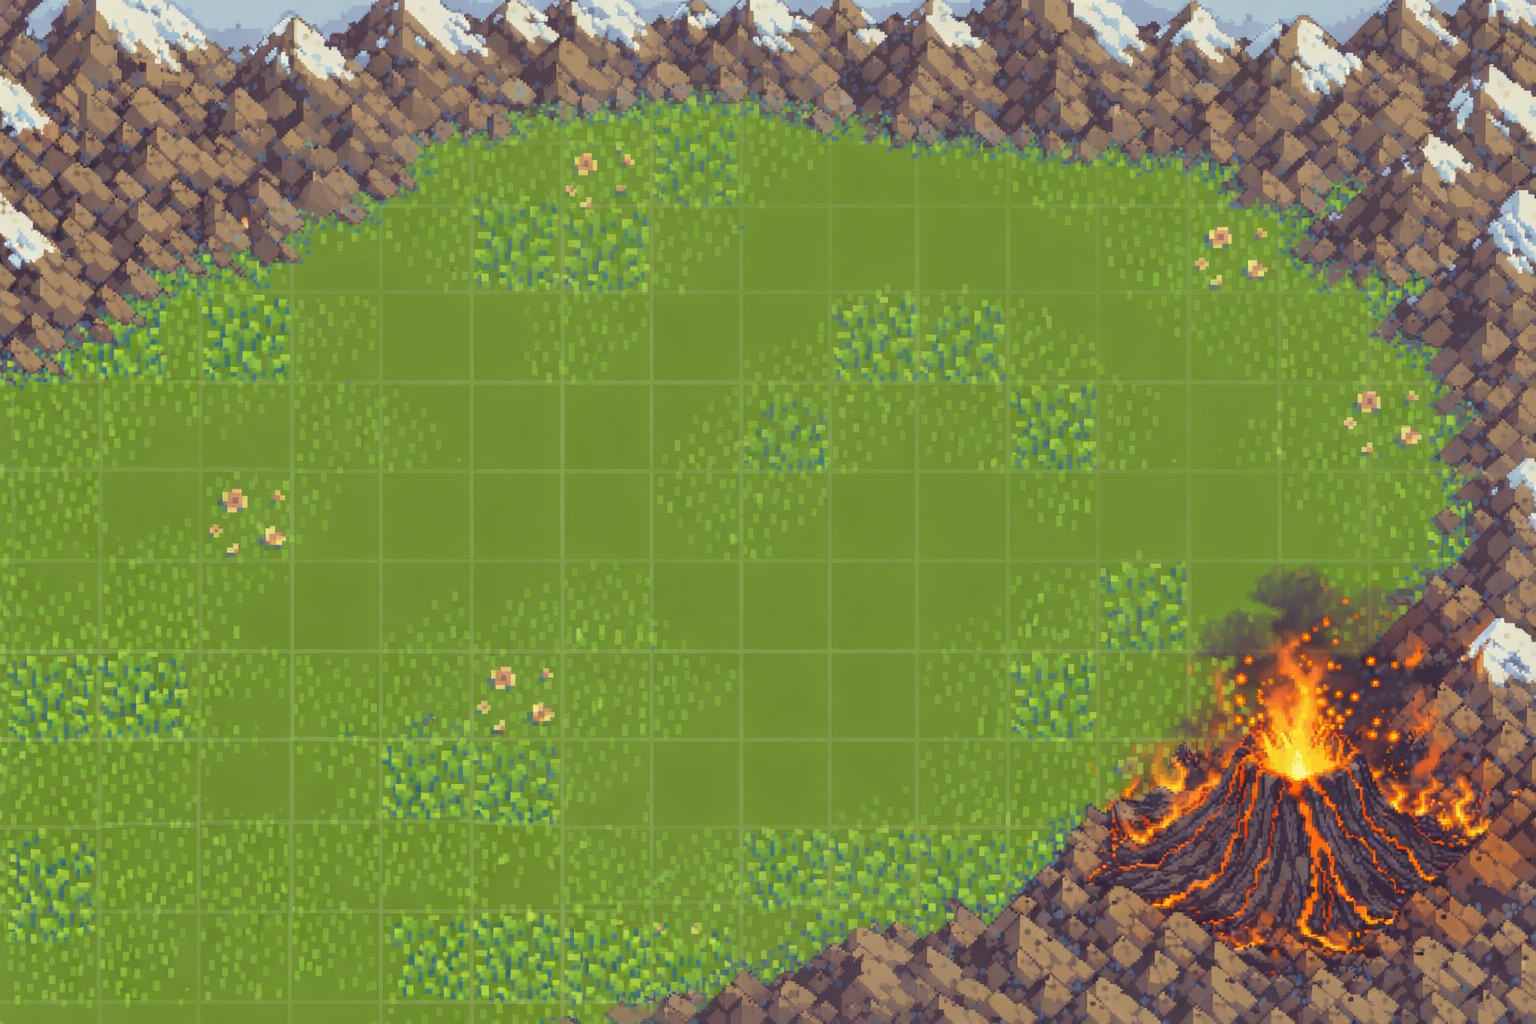
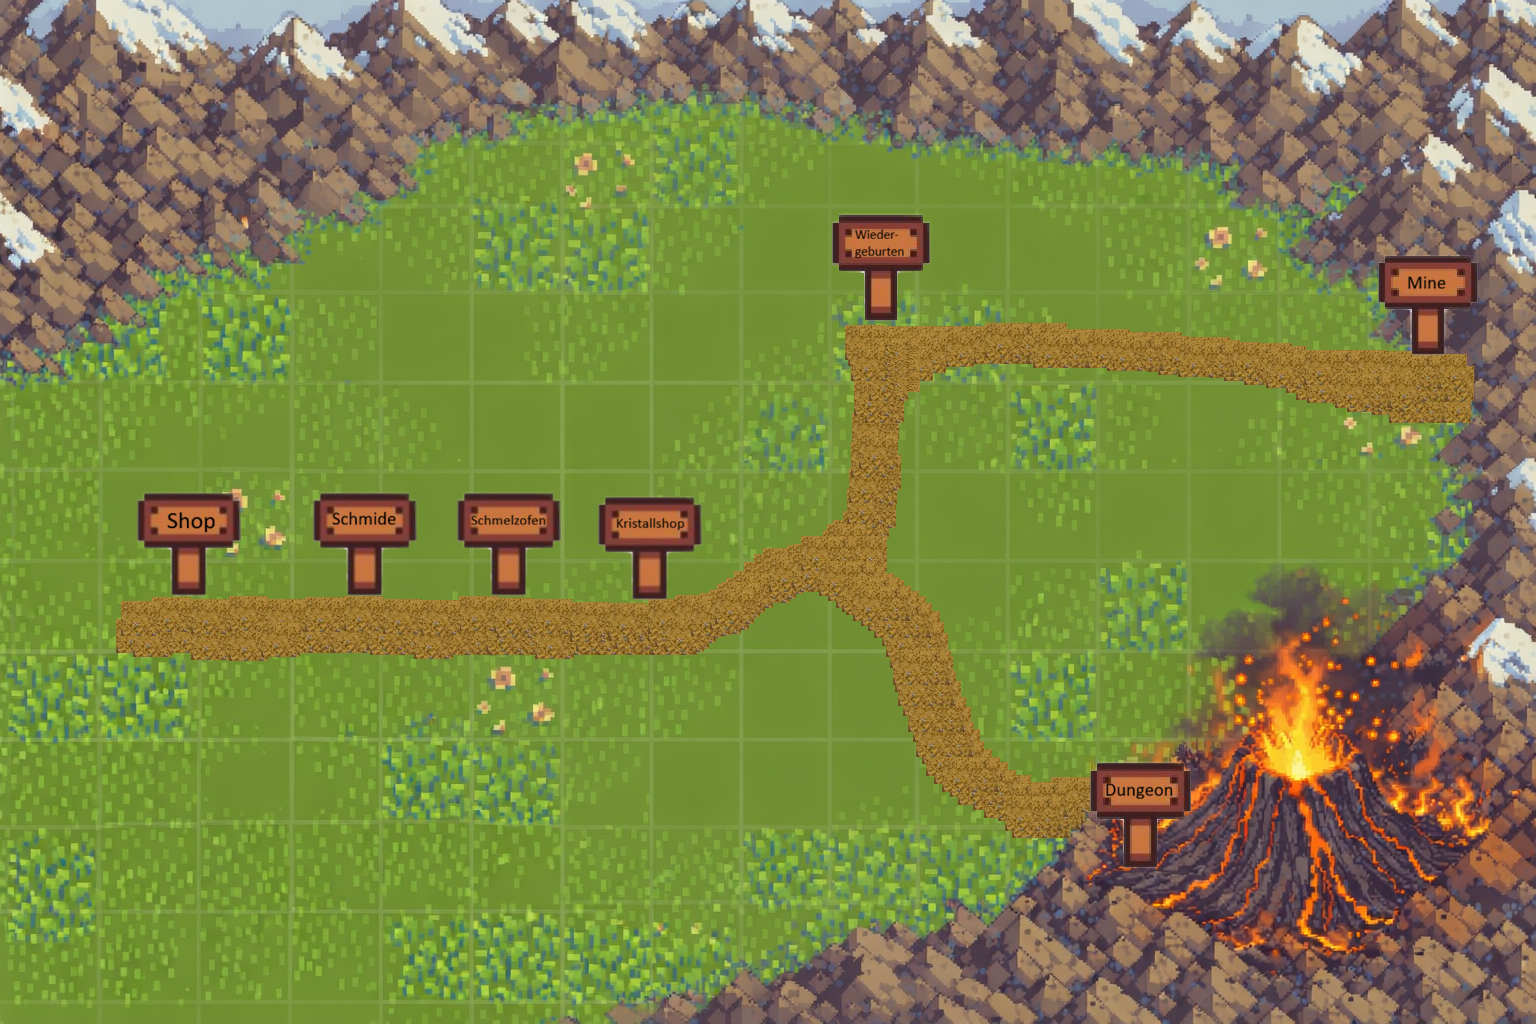
83

Changed region(s): [[0.0625, 0.1875, 0.9688, 0.8438]]

diff --git a/Vorlesungsprogramme/Projekt/Spiel/Spiel.go b/Vorlesungsprogramme/Projekt/Spiel/Spiel.go
@@ -2205,17 +2205,31 @@ func openDungeon(a fyne.App, mainWindow fyne.Window, inv *Inventory) {
 	// Initiale Ebene erstellen
 	createLevel(a, inv, w, mainWindow, &currentLevel, levelButtonContainer, healthLabel, playerHealth, closeDungeon)
 
-	w.SetContent(container.NewVBox(
+	bg := canvas.NewImageFromFile("bild/Dungeoneingang.png")
+	bg.FillMode = canvas.ImageFillStretch
+
+	content := container.NewVBox(
+		widget.NewLabelWithStyle(
+			"Dungeon",
+			fyne.TextAlignCenter,
+			fyne.TextStyle{Bold: true},
+		),
 		levelButtonContainer,
 		widget.NewButton("Dungeon verlassen", closeDungeon),
-	))
+	)
+
+	w.SetContent(
+		container.NewMax(
+			bg,
+			container.NewPadded(content),
+		),
+	)
 
 	w.Canvas().SetOnTypedKey(func(k *fyne.KeyEvent) {
 		if k.Name == fyne.KeyBackspace || k.Name == fyne.KeyEscape {
 			closeDungeon()
 		}
 	})
-
 	w.Show()
 }
 
@@ -2405,7 +2419,6 @@ func createLevel(a fyne.App, inv *Inventory, w fyne.Window, mainWindow fyne.Wind
 				time.Sleep(1 * time.Second)
 			}
 		}()
-
 		w2.Show()
 	})
 

diff --git a/Vorlesungsprogramme/Projekt/Spiel/spieltest/spieltest.go b/Vorlesungsprogramme/Projekt/Spiel/spieltest/spieltest.go
@@ -2205,17 +2205,31 @@ func openDungeon(a fyne.App, mainWindow fyne.Window, inv *Inventory) {
 	// Initiale Ebene erstellen
 	createLevel(a, inv, w, mainWindow, &currentLevel, levelButtonContainer, healthLabel, playerHealth, closeDungeon)
 
-	w.SetContent(container.NewVBox(
+	bg := canvas.NewImageFromFile("bild/Dungeoneingang.png")
+	bg.FillMode = canvas.ImageFillStretch
+
+	content := container.NewVBox(
+		widget.NewLabelWithStyle(
+			"Dungeon",
+			fyne.TextAlignCenter,
+			fyne.TextStyle{Bold: true},
+		),
 		levelButtonContainer,
 		widget.NewButton("Dungeon verlassen", closeDungeon),
-	))
+	)
+
+	w.SetContent(
+		container.NewMax(
+			bg,
+			container.NewPadded(content),
+		),
+	)
 
 	w.Canvas().SetOnTypedKey(func(k *fyne.KeyEvent) {
 		if k.Name == fyne.KeyBackspace || k.Name == fyne.KeyEscape {
 			closeDungeon()
 		}
 	})
-
 	w.Show()
 }
 
@@ -2405,7 +2419,6 @@ func createLevel(a fyne.App, inv *Inventory, w fyne.Window, mainWindow fyne.Wind
 				time.Sleep(1 * time.Second)
 			}
 		}()
-
 		w2.Show()
 	})
 
